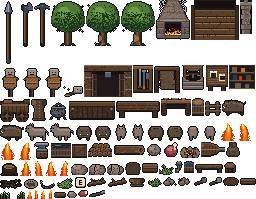
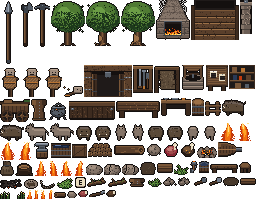
Pieczenie miesa i trwaly stan gracza
Surowe mieso zaspokaja glod na chwile (42 -> 20) i nic poza tym. Upieczone
przy garnku daje 48 i jako **jedyne jedzenie leczy** (18 zycia). Zycie nie
regeneruje sie samo, wiec pieczen jest realnym zasobem bojowym i dlatego
kosztuje droge do ognia zamiast jedzenia nad trupem dzika.

Garnek dolaczyl do STATIONS, wiec pieczenie idzie tym samym mechanizmem co
reszta wyrobow - jedna receptura, zero nowego kodu po stronie interfejsu.

Stan gracza przezywa restart serwera. Plecak, glod i zycie leca do tego
samego pliku co konta i tym samym zapisem: przez plik tymczasowy i rename,
wiec przerwany zapis nie zostawia polowy kont. Osobna baza bylaby tu samym
kosztem - stan gracza jest wlasnoscia konta, a kont sa dziesiatki.

Zapisujemy surowe dane, nie zywe obiekty: plecak jako lista {i,k,x,y,r}.
Gdyby ladowal tam obiekt gry, kazde pole dolozone do plecaka uniewazniloby
zapisy wszystkich graczy. Przy wczytaniu brakujace pola zostaja domyslne,
wiec starszy zapis nie psuje gracza.

Zapis idzie przy rozlaczeniu **i co pol minuty** - sam zapis przy wyjsciu
wystarcza tylko wtedy, gdy wszyscy wychodza grzecznie; przy ubiciu procesu
ginelo wszystko od ostatniego wyjscia.

Zycie zapisujemy takie, jakie jest - takze niskie. Odrodzenie po restarcie
z pelnym paskiem byloby darmowym leczeniem.

Changed region(s): [[0.0, 0.6935, 1.0, 0.9045], [0.4062, 0.9347, 0.4688, 0.995]]

diff --git a/server/src/game.js b/server/src/game.js
@@ -574,6 +574,10 @@ export class Game {
     if (!spec?.food) return false;
     player.bag.items.splice(i, 1);
     player.food = Math.min(FOOD_MAX, player.food + spec.food);
+    // **Leczy tylko to, co ma `heal`** — czyli dziś sama pieczeń. Życie nie
+    // regeneruje się samo, więc każdy punkt musi skądś pochodzić; surowe mięso
+    // zaspokaja głód i nic poza tym.
+    if (spec.heal) player.hp = Math.min(player.maxHp, player.hp + spec.heal);
     player.bagSeq++;
     player.foodSeq = (player.foodSeq ?? 0) + 1;
     return true;
@@ -680,6 +684,24 @@ export class Game {
   /** Przy którym stanowisku stoi gracz — albo `null`. */
   stationOf(player) {
     return stationAt(this.world, player.x, player.y);
+  }
+
+  /**
+   * Stan gracza do zapisania na koncie.
+   *
+   * Życie zapisujemy takie, jakie jest — także niskie. Odrodzenie po restarcie
+   * z pełnym paskiem byłoby darmowym leczeniem, a życie w tej grze ma kosztować.
+   */
+  exportState(player) {
+    return {
+      bag: {
+        items: player.bag.items.map((it) => ({
+          i: it.id, k: it.kind, x: it.x, y: it.y, r: it.rot,
+        })),
+      },
+      food: Math.round(player.food),
+      hp: Math.round(player.hp),
+    };
   }
 
   /** Opis plecaka dla właściciela. Nikt inny go nie dostaje. */
@@ -1446,7 +1468,7 @@ export class Game {
     return this.players.size >= MAX_PLAYERS;
   }
 
-  add(id, { name, variant, admin = false }) {
+  add(id, { name, variant, admin = false, state = null }) {
     const player = {
       id,
       name,
@@ -1511,6 +1533,20 @@ export class Game {
     };
     this.players.set(id, player);
     return player;
+    // Przywrócenie stanu z konta. **Po zbudowaniu gracza, nie zamiast niego** —
+    // brakujące pola mają zostać domyślne, a nie zniknąć, bo zapis może pochodzić
+    // ze starszej wersji gry.
+    if (state) {
+      if (state.bag?.items) {
+        player.bag.items = state.bag.items
+          .filter((it) => ITEMS[it.k])
+          .map((it) => ({ id: it.i, kind: it.k, x: it.x, y: it.y, rot: it.r ? 1 : 0 }));
+        player.bag.nextId = Math.max(1, ...player.bag.items.map((it) => it.id + 1));
+      }
+      if (Number.isFinite(state.food)) player.food = Math.max(0, Math.min(FOOD_MAX, state.food));
+      if (Number.isFinite(state.hp)) player.hp = Math.max(1, Math.min(player.maxHp, state.hp));
+    }
+
   }
 
   remove(id) {

diff --git a/server/src/net.js b/server/src/net.js
@@ -234,7 +234,14 @@ export function attachGame(sockets, dataDir, variantCount = 6, { guests = false 
     const variant = (((account.variant ?? 0) % variantCount) + variantCount) % variantCount;
 
     const id = nextId++;
-    const player = game.add(id, { name: account.name, variant, admin: Boolean(account.admin) });
+    // Stan z konta: plecak, głód i życie przeżywają restart serwera. Goście go
+    // nie dostają i nie powinni — konto gościa nie trafia nawet do pliku.
+    const player = game.add(id, {
+      name: account.name,
+      variant,
+      admin: Boolean(account.admin),
+      state: accounts.stateOf(account.name),
+    });
     session.player = player;
     session.joining = false;
     clearTimeout(session.joinTimer);
@@ -444,6 +451,11 @@ export function attachGame(sockets, dataDir, variantCount = 6, { guests = false 
       clearTimeout(session.joinTimer);
       sessions.delete(socket);
       if (session.player) {
+        // Zapis **przed** usunięciem gracza ze świata — po `remove()` nie ma już
+        // czego zapisywać. Goście pomijani, bo nie mają konta.
+        if (!session.guest) {
+          accounts.setState(session.player.name, game.exportState(session.player));
+        }
         game.remove(session.player.id);
         broadcast({ t: 'bye', id: session.player.id });
         broadcast({ t: 'system', m: `${session.player.name} wychodzi` });
@@ -471,6 +483,19 @@ export function attachGame(sockets, dataDir, variantCount = 6, { guests = false 
   // a od tego zależy, ile czasu symulacji serwer przyznaje graczom.
   let lastTickAt = Date.now();
   let worstGap = 0;
+
+  // Zapis okresowy — **bo serwer nie zawsze kończy się grzecznie**.
+  //
+  // Sam zapis przy rozłączeniu wystarcza, dopóki wszyscy wychodzą normalnie;
+  // przy ubiciu procesu albo restarcie usługi ginie wszystko od ostatniego
+  // wyjścia. Co pół minuty jest tanio (kilkadziesiąt kont w jednym pliku)
+  // i ogranicza stratę do pół minuty gry.
+  setInterval(() => {
+    for (const session of sessions.values()) {
+      if (!session.player || session.guest) continue;
+      accounts.setState(session.player.name, game.exportState(session.player));
+    }
+  }, 30_000);
 
   setInterval(() => {
     const gap = Date.now() - lastTickAt;

diff --git a/client/src/world/items.js b/client/src/world/items.js
@@ -25,7 +25,16 @@ export const ITEMS = {
   stone: { w: 1, h: 1, icon: 'icon_stone', name: 'kamień' },
   // Mięso zajmuje jedną kratkę i to jest celowo tanio: głód ma być rozwiązywalny,
   // ale **musisz je najpierw upolować**. Trudność siedzi w zdobyciu, nie w noszeniu.
-  meat: { w: 1, h: 1, icon: 'icon_meat', name: 'mięso', food: 42 },
+  // Surowe mięso jest **słabe i tyle**. Zaspokoi głód na chwilę, ale prawdziwą
+  // wartość ma dopiero po upieczeniu — to jest cały powód, dla którego warto
+  // wracać do ognia zamiast jeść nad trupem dzika.
+  meat: { w: 1, h: 1, icon: 'icon_meat', name: 'surowe mięso', food: 20 },
+  // Pieczone: ponad dwa razy tyle głodu i **jedyne jedzenie, które leczy**.
+  // Życie nie regeneruje się samo, więc pieczeń jest tu realnym zasobem
+  // bojowym, a nie ozdobą — i dlatego kosztuje drogę do ognia.
+  meat_cooked: {
+    w: 1, h: 1, icon: 'icon_meat_cooked', name: 'pieczeń', food: 48, heal: 18,
+  },
   // Dzida zajmuje pół plecaka i to jest jej koszt. Nosisz broń albo nosisz łup.
   // `weapon` znaczy „tym się bije", `tool` — „tym się pracuje". Rozdzielone,
   // bo pasek narzędzi pyta o jedno i drugie osobno: dzidą nie zetniesz drzewa,
@@ -84,6 +93,9 @@ export const RECIPES = [
   { out: 'axe', cost: { wood: 2, stone: 2 }, station: 'workbench' },
   { out: 'pick', cost: { wood: 2, stone: 3 }, station: 'workbench' },
   { out: 'spear', cost: { wood: 3, stone: 1 }, station: 'workbench' },
+  // Pieczenie przy garnku. Jeden do jednego, bo to nie jest wytwarzanie —
+  // to jest obróbka tego, co już się upolowało.
+  { out: 'meat_cooked', cost: { meat: 1 }, station: 'cookpot' },
   // Wyprawianie: dwie surowe skóry na jedną wyprawioną. Stratne celowo — skóra
   // schnie i się kraje, a zbroja ma kosztować kilka polowań, nie jedno.
   { out: 'leather', cost: { hide: 2 }, station: 'tanrack' },

diff --git a/tools/art/props.js b/tools/art/props.js
@@ -1216,6 +1216,34 @@ function iconMeat() {
   return finish(t);
 }
 
+/** Pieczeń: 1x1. Ta sama sylwetka co surowe, ale przypieczona — brąz zamiast czerwieni. */
+function iconMeatCooked() {
+  const rng = rngFor('icon_meat_cooked');
+  const t = new Canvas(CELL, CELL);
+  t.ellipse(8, 9, 6, 5, c('wood', 0));
+  t.ellipse(8, 8, 5, 4, c('wood', 2));
+  t.ellipse(7, 7, 3, 2, c('wood', 3));
+  // Kość zostaje — to po niej poznaje się, że to dalej mięso, a nie bochenek.
+  t.rect(11, 3, 2, 5, c('parchment'));
+  t.ellipse(12, 3, 2, 2, c('parchment'));
+  t.px(12, 3, c('bone'));
+  // Przypieczenia: ciemne plamki i dwa jasne błyski tłuszczu.
+  t.speckle(rng, c('soot', 2), 0.12, { x: 4, y: 6, w: 9, h: 7 });
+  t.px(6, 8, c('ember', 3));
+  t.px(9, 10, c('ember', 3));
+  return finish(t);
+}
+
+/** Pieczeń leżąca na ziemi. */
+function itemMeatCooked() {
+  const t = new Canvas(10, 7);
+  t.ellipse(5, 4, 4, 3, c('wood', 1));
+  t.ellipse(5, 3, 3, 2, c('wood', 2));
+  t.px(4, 2, c('wood', 3));
+  t.rect(7, 1, 2, 3, c('parchment'));
+  return finish(t);
+}
+
 /** Mięso leżące na ziemi. */
 function itemMeat() {
   const t = new Canvas(10, 7);
@@ -1792,6 +1820,8 @@ export function buildProps() {
   add('icon_stone', iconStone());
   add('icon_spear', iconSpear());
   add('icon_meat', iconMeat());
+  add('icon_meat_cooked', iconMeatCooked());
+  add('item_meat_cooked', itemMeatCooked());
   add('fence', fence());
   add('campfire', campfire());
   add('gate', gateArch());

diff --git a/server/src/accounts.js b/server/src/accounts.js
@@ -215,6 +215,31 @@ export class Accounts {
     this.dirty = true;
   }
 
+  /**
+   * Stan gracza, który ma **przeżyć restart serwera**: plecak, głód, życie.
+   *
+   * Trafia do tego samego pliku co konta i tym samym zapisem — przez plik
+   * tymczasowy i `rename`, więc przerwany zapis nie zostawia po sobie połowy
+   * kont. Osobna baza byłaby tu wyłącznie kosztem: stan gracza jest własnością
+   * konta, a kont jest kilkadziesiąt, nie milion.
+   *
+   * Zapisujemy **surowe dane, nie żywe obiekty**: plecak leci jako lista wpisów
+   * `{i, k, x, y, r}`, bo to jedyny format, który da się odczytać po zmianie
+   * kodu. Gdyby lądował tu obiekt gry, każde pole dołożone do plecaka
+   * unieważniałoby zapisy wszystkich graczy.
+   */
+  setState(name, state) {
+    const account = this.byKey.get(Accounts.keyOf(name));
+    if (!account) return;
+    account.state = state;
+    this.dirty = true;
+  }
+
+  /** Zapamiętany stan albo `null` dla nowego konta. */
+  stateOf(name) {
+    return this.byKey.get(Accounts.keyOf(name))?.state ?? null;
+  }
+
   get size() {
     return this.byKey.size;
   }

diff --git a/client/src/world/forge.js b/client/src/world/forge.js
@@ -63,7 +63,7 @@ export function craftStation(world, key = 'workbench') {
  * bo po niej klient wybiera listę wyrobów, a serwer sprawdza, czy dany wyrób
  * wolno wykonać tutaj.
  */
-export const STATIONS = ['workbench', 'tanrack'];
+export const STATIONS = ['workbench', 'tanrack', 'cookpot'];
 
 export function stationAt(world, x, y) {
   for (const key of STATIONS) if (atCraftStation(world, x, y, key)) return key;
